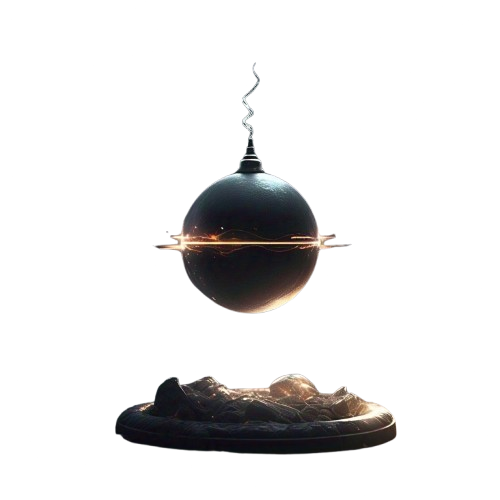
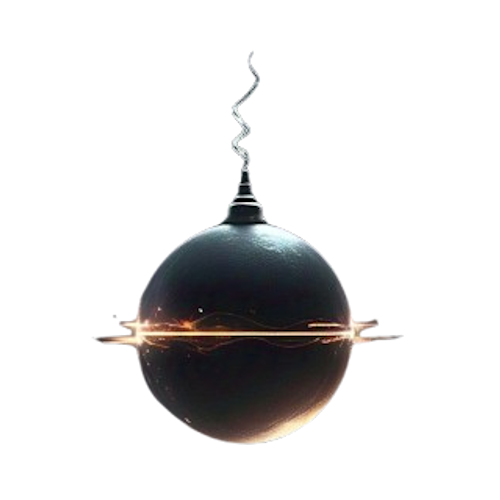
Más animaciones
Adición de animación para varita
Mejora animación para la bomba y el huevo

Changed region(s): [[0.18, 0.09, 0.81, 0.93]]

diff --git a/SortilegiosWeasley/src/styles/detalleProductoEntrada.css b/SortilegiosWeasley/src/styles/detalleProductoEntrada.css
@@ -25,6 +25,13 @@
     width: 80%;
 }
 
+.mostrador-producto-seccion {
+    display:flex;
+    flex-direction: column;
+    justify-content: center;
+    align-items: center;
+}
+
 
 .detalle-seccion {
     background-color: #fff;
@@ -192,6 +199,8 @@
 
 
 
+
+
 /*ANIMACIONES*/
 
 /*ANIMACIÓN HUEVOIRROMPIBLE*/
@@ -233,24 +242,20 @@
     }
 }
 
-.mostrador-producto-seccion {
-    display:flex;
-    flex-direction: column;
-    justify-content: center;
-    align-items: center;
-}
 
 
 #huevoirrompible {
-    position: relative;
-    border-radius: 50%;
     animation: caerYRebotar 2s ease-in-out forwards; /* Solo se ejecuta una vez */
     transition: filter 0.5s ease;
+    filter: drop-shadow(0 0 1rem rgba(255, 215, 0, 0.5));
 }
 
 #huevoirrompible:hover {
-    filter: drop-shadow(0 0 20px rgba(255, 215, 0, 1)) drop-shadow(0 0 40px rgba(255, 215, 0, 0.7));
+    filter: drop-shadow(0 0 7rem rgba(255, 215, 0, 1)) drop-shadow(0 0 3rem rgba(255, 237, 145, 0.7));
 }
+
+
+
 
 
 
@@ -258,28 +263,108 @@
 
 /* Animación principal: explosión */
 @keyframes shake {
-    0%, 100% { transform: translateX(0); }
-    10% { transform: translateX(-5px); }
-    20% { transform: translateX(5px); }
-    30% { transform: translateX(-5px); }
-    40% { transform: translateX(5px); }
-    50% { transform: translateX(0); }
+    0%, 100% {
+        transform: translateX(0);
+    }
+    10% {
+        transform: translateX(-7px); filter: brightness(0.7); /* Valor "aleatorio" dentro del rango */
+    }
+    20% {
+        transform: translateX(12px); /* Valor "aleatorio" dentro del rango */
+    }
+    30% {
+        transform: translateX(-15px); filter: brightness(1); /* Valor "aleatorio" dentro del rango */
+    }
+    40% {
+        transform: translateX(9px); /* Valor "aleatorio" dentro del rango */
+    }
+    50% {
+        transform: translateX(0); filter: brightness(1.5);  /* Valor "aleatorio" dentro del rango */;
+    }
+    60% {
+        transform: translateX(-10px); filter: brightness(0.8); /* Valor "aleatorio" dentro del rango */
+    }
+    70% {
+        transform: translateX(8px); /* Valor "aleatorio" dentro del rango */
+    }
+    80% {
+        transform: translateX(-13px); /* Valor "aleatorio" dentro del rango */
+    }
+    90% {
+        transform: translateX(6px); /* Valor "aleatorio" dentro del rango */
+    }
 }
 
 @keyframes grow {
-    0% { transform: scale(1); }
-    100% { transform: scale(1.5); }
+    0% { transform: scale(1); filter: brightness(1.3);}
+    100% { transform: scale(1.5); filter: brightness(1.5)}
 }
 
 @keyframes explode {
-    0% { transform: scale(1.3); opacity: 1; }
-    100% { transform: scale(3); opacity: 0; }
+    0% { transform: scale(1.3); opacity: 1; filter: brightness(3)}
+    100% { transform: scale(3); opacity: 0; filter: brightness(0)}
+
 }
 
 #bombaarcanaoscura {
     transition: all 0.3s ease-in-out;
+    animation: shake 2s ease-in-out infinite;
 }
 
 #bombaarcanaoscura:hover {
     animation: shake 0.5s ease-in-out, grow 0.5s 0.5s ease-in-out, explode 1s 1s;
+
+}
+
+/*Animación varita*/
+
+/* CSS */
+#varitamágicafake {
+    animation: float-animation 2s infinite ease-in-out;
+    filter: drop-shadow(0 0 6rem rgb(94, 0, 255)) drop-shadow(0 0 5rem rgba(225, 132, 253, 0.7)) drop-shadow(0 0 4rem rgba(255, 255, 255, 0.8)) brightness(1.7);
+}
+
+
+
+/* Pseudo-elemento para el brillo mágico */
+#varitamágicafake:hover {
+
+    animation: glow-animation 2s infinite ease-in-out, rotate-animation 1.3s infinite; /* Añadimos la animación de rotación */
+    filter: drop-shadow(0 0 6rem rgb(236, 212, 64)) drop-shadow(0 0 5rem rgba(197, 191, 107, 0.7)) drop-shadow(0 0 4rem rgba(255, 255, 255, 0.8)) brightness(1.7);
+
+
+}
+
+/* Animación del brillo */
+@keyframes glow-animation {
+    0% {
+
+        transform: scale(0.8);
+    }
+    50% {
+        transform: scale(1.1);
+    }
+    100% {
+        transform: scale(0.8);
+    }
+}
+
+/* Animación de flotación */
+@keyframes float-animation {
+    0%, 100% {
+        transform: translateY(0);
+    }
+    50% {
+        transform: translateY(-2rem);
+    }
+}
+
+/* Animación de rotación */
+@keyframes rotate-animation {
+    from {
+        transform: rotate(0deg);
+    }
+    to {
+        transform: rotate(360deg);
+    }
 }

diff --git a/SortilegiosWeasley/src/mocks/articulos.tsx b/SortilegiosWeasley/src/mocks/articulos.tsx
@@ -28,14 +28,23 @@ export const articulos: Array<Articulo> = [
         imagen: "../src/assets/imagenesProductos/magiaMuggle/miraphorus.png",
         seccion: "Magia Muggle",
         resenas: []
-    }
-    ,
+    },
+
     {
         nombre: "Bomba Arcana Oscura",
         precio: 150,
         descripcion: "Una esfera encantada de diseño minimalista, con líneas de energía arcana que pulsan suavemente. Su fusible brillante emite chispas mágicas, indicando su inestabilidad. Perfecta para crear efectos espectaculares en duelos y travesuras mágicas.",
         imagen: "../src/assets/imagenesProductos/explosivos/bomba.png",
         seccion: "Explosivos",
+        resenas: []
+
+    },
+    {
+        nombre: "Varita Mágica Fake",
+        precio: 299.99, // Precio ficticio en tu moneda local
+        descripcion: "✨ ¡Despierta el mago o bruja que llevas dentro con esta impresionante Varita Mágica Minimalista! ✨ Inspirada en el mágico mundo de Harry Potter, esta varita combina un diseño elegante y moderno con un toque de encanto sobrenatural. Su punta emite un brillo etéreo que te transportará directamente a las aulas de Hogwarts -o eso dicen-. ¿Estás list@ para lanzar hechizos épicos? ¡No querrás dejarla en casa!",
+        imagen: "../src/assets/imagenesProductos/bromas/varita.png",
+        seccion: "Bromas",
         resenas: []
 
     }
